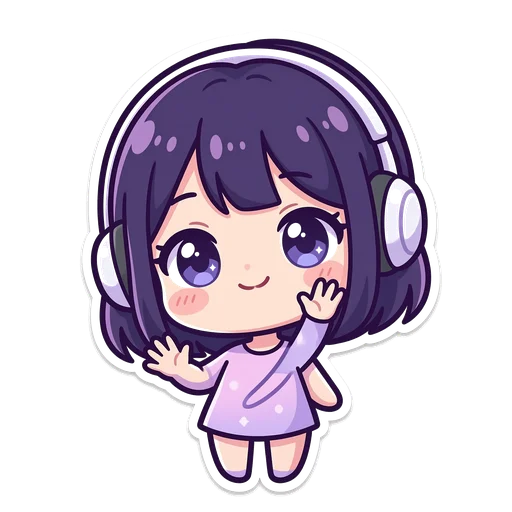
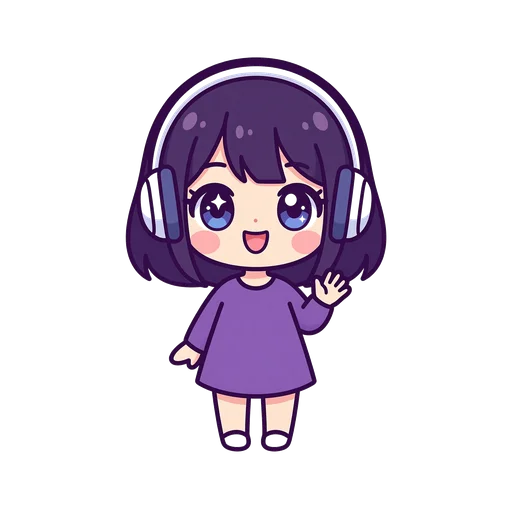
fix(assets): 汐 3 张贴纸重绘同步 + 贴纸 URL 版本化根治旧缓存
- 更新 sio-sticker-01/02/04 素材（重新生成，手部/体型修复）
- 元数据同步：sio-02 开心点头→捧心比心、sio-04 温柔安慰→委屈哭哭（AI 触发语义一致）
- 新增 stickerSrc()：渲染 URL 带 ?v= 版本号 + 贴纸 unoptimized 绕过 next/image 优化器，
  根治「改图后仍显示旧图」的优化器/浏览器缓存问题（STICKER_ASSET_VERSION 变更即全站拉新）

diff --git a/src/data/stickers.ts b/src/data/stickers.ts
@@ -20,9 +20,9 @@ export interface Sticker {
 const STICKERS: Sticker[] = [
   // 汐 · 星海电台导航少女
   { id: "sio-01", roleId: "sio", path: "/images/sio-sticker-01.webp", name: "挥手问好", vibe: "冷暖打招呼/开场" },
-  { id: "sio-02", roleId: "sio", path: "/images/sio-sticker-02.webp", name: "开心点头", vibe: "认同/开心" },
+  { id: "sio-02", roleId: "sio", path: "/images/sio-sticker-02.webp", name: "捧心比心", vibe: "喜爱/感谢/示好" },
   { id: "sio-03", roleId: "sio", path: "/images/sio-sticker-03.webp", name: "点赞加油", vibe: "夸奖/鼓励" },
-  { id: "sio-04", roleId: "sio", path: "/images/sio-sticker-04.webp", name: "温柔安慰", vibe: "难过/安慰" },
+  { id: "sio-04", roleId: "sio", path: "/images/sio-sticker-04.webp", name: "委屈哭哭", vibe: "难过/委屈/撒娇" },
   { id: "sio-05", roleId: "sio", path: "/images/sio-sticker-05.webp", name: "太棒了", vibe: "欢呼/庆祝" },
   { id: "sio-06", roleId: "sio", path: "/images/sio-sticker-06.webp", name: "呆住惊讶", vibe: "惊讶/意外" },
   { id: "sio-07", roleId: "sio", path: "/images/sio-sticker-07.webp", name: "偷笑调皮", vibe: "玩笑/俏皮" },
@@ -62,6 +62,18 @@ const STICKERS: Sticker[] = [
 /** 按 id 取表情，未知返回 undefined（渲染层按字面文本兜底） */
 export function stickerOf(id: string): Sticker | undefined {
   return STICKERS.find((s) => s.id === id);
+}
+
+/**
+ * 素材版本号：美术更新贴纸图后 +1。
+ * 渲染地址带版本参数，强制浏览器与 next/image 优化器绕过旧缓存
+ * （曾出现改图后仍显示旧图的问题——优化器按 URL 缓存不随源文件失效）。
+ */
+export const STICKER_ASSET_VERSION = 2;
+
+/** 贴纸图片渲染地址（含版本号，素材更新后必然拉新） */
+export function stickerSrc(sticker: Pick<Sticker, "path">): string {
+  return `${sticker.path}?v=${STICKER_ASSET_VERSION}`;
 }
 
 /** 某角色全部表情（按编号有序） */

diff --git a/src/components/chat/MessageList.tsx b/src/components/chat/MessageList.tsx
@@ -6,7 +6,7 @@ import Image from "next/image";
 import { personaOf } from "@/data/chat-personas";
 import type { ChatPersona } from "@/data/chat-personas";
 import { TRACKS } from "@/data/tracks";
-import { stickerOf, type Sticker } from "@/data/stickers";
+import { stickerOf, stickerSrc, type Sticker } from "@/data/stickers";
 import { useChatStore } from "@/stores/chat";
 import { useTtsStore } from "@/stores/tts";
 import { MessageActions } from "@/components/chat/MessageActions";
@@ -61,10 +61,13 @@ function MusicChip({ name }: { name: string }) {
 }
 
 /** R5 表情包贴纸：块级居中大图（黑色贴纸底，气泡内融合） */
+/** R5 表情包贴纸：块级居中大图（黑色贴纸底，气泡内融合）。
+ * unoptimized：贴纸走原始路径 + 版本号（?v=），不经 next/image 优化器，
+ * 避免优化器按 URL 缓存旧图（素材更新后强制拉新）。 */
 function StickerImage({ sticker }: { sticker: Sticker }) {
   return (
     <span className={styles.stickerWrap} title={sticker.name}>
-      <Image src={sticker.path} alt={sticker.name} fill sizes="140px" />
+      <Image src={stickerSrc(sticker)} alt={sticker.name} fill sizes="140px" unoptimized />
     </span>
   );
 }
@@ -77,7 +80,7 @@ function StickerCard({ stickerId }: { stickerId: string }) {
   }
   return (
     <span className={styles.stickerCard} title={st.name}>
-      <Image src={st.path} alt={st.name} fill sizes="190px" />
+      <Image src={stickerSrc(st)} alt={st.name} fill sizes="190px" unoptimized />
     </span>
   );
 }

diff --git a/src/data/stickers.test.ts b/src/data/stickers.test.ts
@@ -1,7 +1,7 @@
 import { describe, expect, it } from "vitest";
 import { existsSync } from "node:fs";
 import { join } from "node:path";
-import { stickerOf, stickerPromptFor, stickersOfRole } from "@/data/stickers";
+import { stickerOf, stickerPromptFor, stickersOfRole, stickerSrc } from "@/data/stickers";
 
 /** R5 表情包数据冒烟：素材就位 / id 唯一 / prompt 可读 */
 
@@ -27,6 +27,12 @@ describe("素材就位", () => {
   it("stickerOf 命中已知 / 未知返回 undefined", () => {
     expect(stickerOf("sio-01")?.path).toBe("/images/sio-sticker-01.webp");
     expect(stickerOf("nope-99")).toBeUndefined();
+  });
+
+  it("stickerSrc 带版本号（素材更新后强制绕过浏览器/优化器旧缓存）", () => {
+    const s = stickerOf("sio-02")!;
+    expect(stickerSrc(s)).toBe("/images/sio-sticker-02.webp?v=2");
+    expect(stickerSrc(s)).toContain("?v=");
   });
 });
 

diff --git a/src/components/chat/StickerPicker.tsx b/src/components/chat/StickerPicker.tsx
@@ -2,7 +2,7 @@
 
 import { useEffect } from "react";
 import Image from "next/image";
-import { stickersOfRole } from "@/data/stickers";
+import { stickersOfRole, stickerSrc } from "@/data/stickers";
 import styles from "./StickerPicker.module.css";
 
 interface StickerPickerProps {
@@ -47,7 +47,7 @@ export function StickerPicker({ roleId, busy, onClose, onSend }: StickerPickerPr
               aria-label={`发送表情包 ${s.name}`}
               onClick={() => onSend(s.id)}
             >
-              <Image src={s.path} alt={s.name} width={72} height={72} className={styles.img} />
+              <Image src={stickerSrc(s)} alt={s.name} width={72} height={72} className={styles.img} unoptimized />
               <span className={styles.itemName}>{s.name}</span>
             </button>
           ))}
